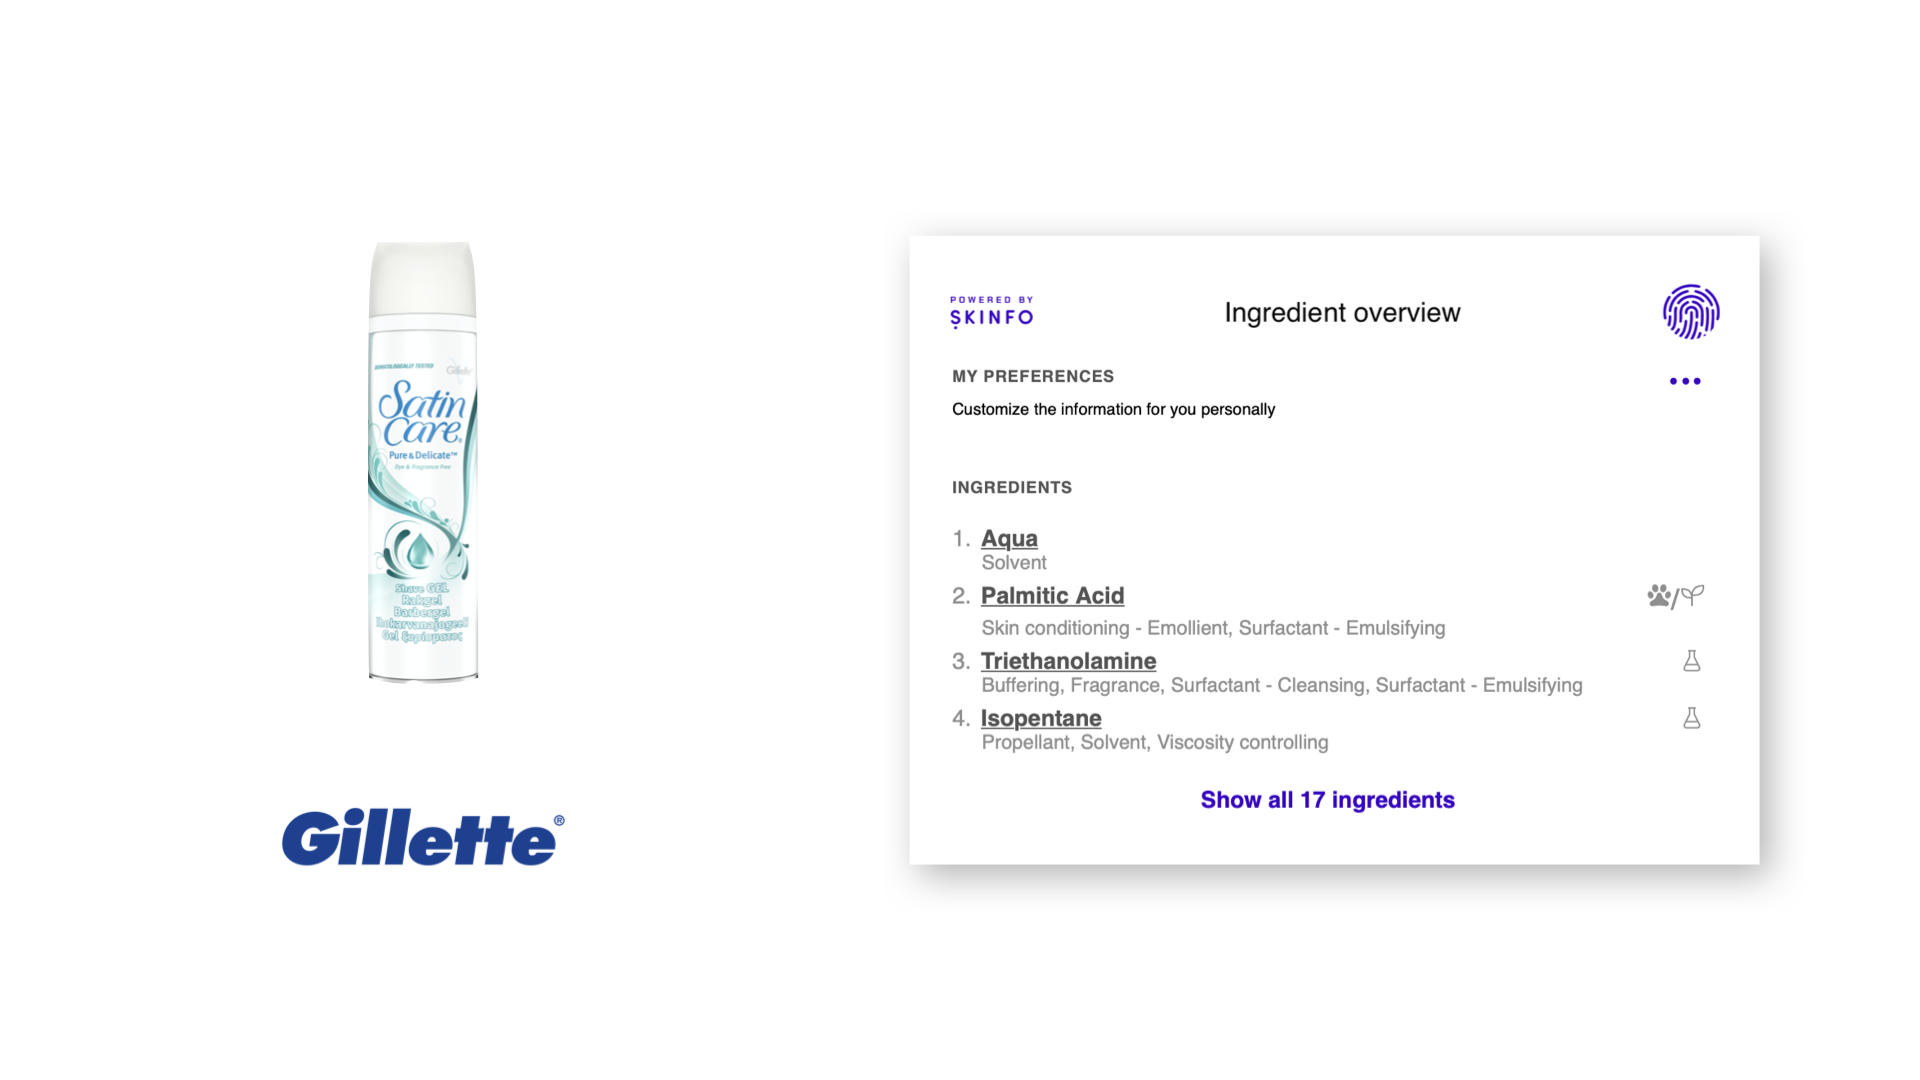
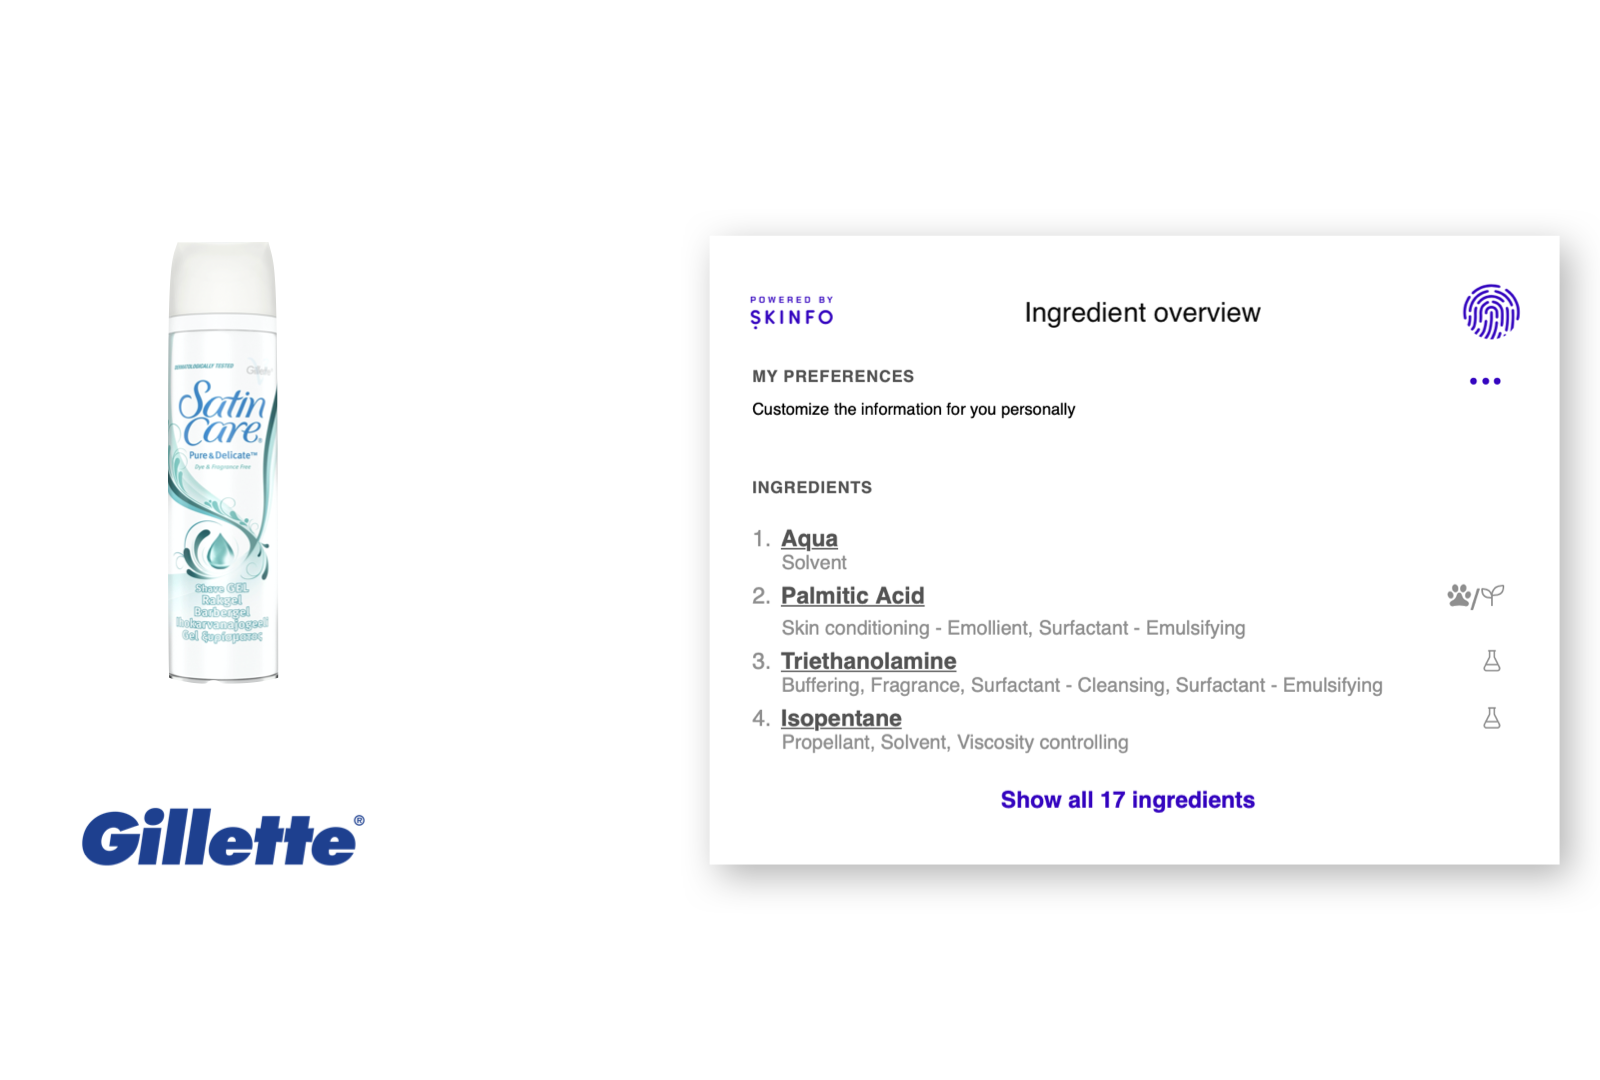
fixed first div responsive

diff --git a/new/index.html b/new/index.html
@@ -68,9 +68,9 @@
         </div>
     </div>
     <div style="margin-top:50px;"></div>
-    <div class="two-block-fullwidth" style="background: linear-gradient(to bottom, rgb(243,247,254) 45%, white 45%);">
-        <div class="inside-block" style="position: relative; left:20%">
-            <div class="inside-block-left">
+    <div class="two-block-fullwidth first-section-background first-section-fullwidth">
+        <div class="inside-block first-section-first-block">
+            <div class="inside-block-left first-section-first-block-left">
                 <div>
                     <h1>
                         Skinfo Ingredient Widget
@@ -86,34 +86,19 @@
             </div>
         </div>
         <div class="two-block-breaker"></div>
-        <div class="inside-block" style="min-width: 80%;">
-            <div class="inside-block-right" style="position: relative; left:-175px">
-                <div id="start-div" style="display: flex; min-height: 65vh; background-size: contain; background-repeat: no-repeat; background-image: url(images/start1.png);-webkit-transition: background-image 0.5s ease-in-out;
-                transition: background-image 0.5s ease-in-out;">
+        <div class="inside-block first-section-second-block">
+            <div class="inside-block-right">
+                <div id="first-section-image-div" class="first-section-image-div">
                 </div>
             </div>
         </div>
+        <!-- used to pre-load-images -->
+        <div style="display: none;">
+            <img src="images/start1.png">
+            <img src="images/start2.png">
+            <img src="images/start3.png">
+        </div>
     </div>
-
-    <!-- <div class="one-block-fullwidth"
-        style="display: flex; background: linear-gradient(to bottom, rgb(243,247,254) 55%, white 45%);">
-        <div style="position: relative; top:50px; width: 150px; max-width: 20%;">
-            <h1>
-                Skinfo Ingredient Widget
-            </h1>
-            <h2>Used by shoppers 10,000+ times daily</h2>
-            <h3>Increase sales through trust and transparency, help shoppers understand every ingredient</h3>
-        </div>
-        <div id="start-div" style="float: right; min-width: 80%; max-width: 80%; display: flex; min-height: 80vh; background-size: contain; background-repeat: no-repeat; background-image: url(images/start1.png);-webkit-transition: background-image 0.5s ease-in-out;
-            transition: background-image 0.5s ease-in-out;">
-        </div>
-        <div>
-            <div style="margin-top: 20px;">
-                <button id="try_it_here" class="skinfobackgroundcolor">Start free trial</button>
-                <button id="contact_us" class="skinfobackgroundcolor">Request a Demo</button>
-            </div>
-        </div>
-    </div> -->
     <div class="one-block-fullwidth">
         <div style="display: flex; margin: 20px;">
             <div style="margin: auto;">
@@ -419,15 +404,72 @@
 </body>
 
 </html>
+<style>
+    .first-section-background {
+        background: linear-gradient(to bottom, rgb(243, 247, 254) 55%, white 55%);
+    }
+
+    .first-section-first-block {
+        float: left;
+        width: 20%;
+    }
+
+    .first-section-first-block-left {
+        position: relative;
+        left: 40%;
+        z-index: 1;
+    }
+
+    .first-section-second-block {
+        min-width: 80%;
+    }
+
+    .first-section-image-div {
+        display: flex;
+        min-height: 45vh;
+        background-size: contain;
+        background-repeat: no-repeat;
+        background-image: url(images/start1.png);
+        -webkit-transition: background-image 0.5s ease-in-out;
+        transition: background-image 0.5s ease-in-out;
+    }
+
+    @media only screen and (max-width: 1350px) {
+        .first-section-background {
+            background: linear-gradient(to bottom, rgb(243, 247, 254) 65%, white 35%);
+        }
+
+        .first-section-fullwidth {
+            display: block;
+        }
+
+        .first-section-first-block {
+            float: unset;
+            width: unset;
+            margin: auto;
+            text-align: center;
+        }
+
+        .first-section-first-block-left {
+            position: unset;
+            left: unset;
+        }
+
+        .first-section-second-block {
+            margin: auto;
+        }
+
+        .first-section-image-div {
+            background-position: center;
+        }
+    }
+</style>
 <script>
-
-
-
     async function updateStartDivBackground(value) {
         setTimeout(function () {
             if (value > 3)
                 value = 1;
-            var maindiv = document.getElementById('start-div');
+            var maindiv = document.getElementById('first-section-image-div');
             maindiv.style.backgroundImage = 'url("images/start' + value + '.png")'
             updateStartDivBackground(value + 1);
         }, 5000);
@@ -458,5 +500,4 @@
 
 
     updateStartDivBackground(2);
-
 </script>

diff --git a/new/css/style.css b/new/css/style.css
@@ -791,6 +791,10 @@ iframe::-webkit-scrollbar {
         display: block;
     }
 
+    .two-block-fullwidth {
+        display: block;
+    }
+
     .two-block-breaker {
         margin-top:20px;
     }
